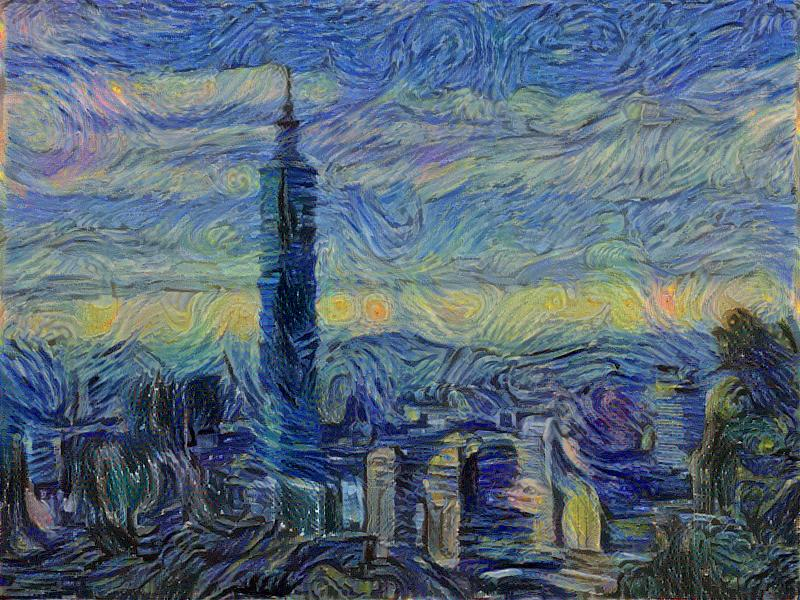
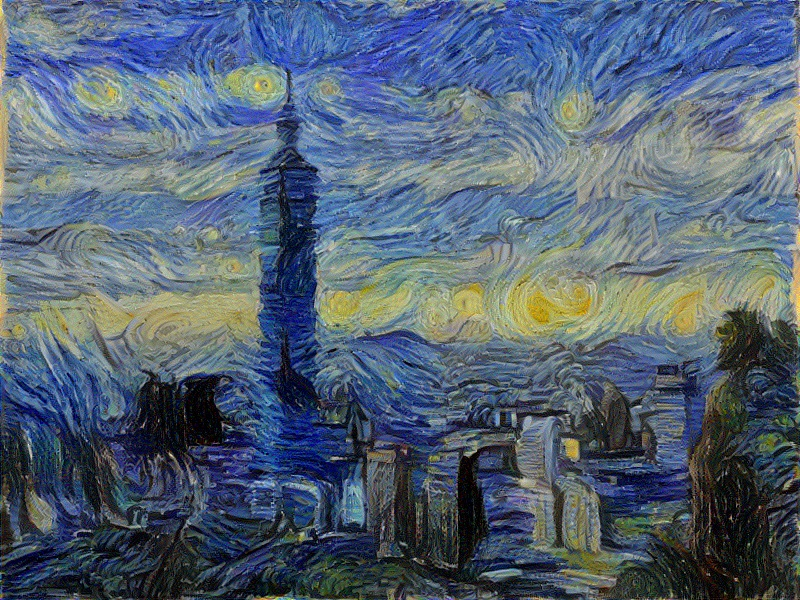
change result img

diff --git a/main.py b/main.py
@@ -9,10 +9,12 @@ IMAGE_W = 800
 IMAGE_H = 600 
 CONTENT_IMG =  './images/Taipei101.jpg'
 STYLE_IMG = './images/StarryNight.jpg'
-OUTPUT_IMG = './results/results.png'
+OUTOUT_DIR = './results'
+OUTPUT_IMG = 'results.png'
+VGG_MODEL = 'imagenet-vgg-verydeep-19.mat'
 INI_NOISE_RATIO = 0.7
 STYLE_STRENGTH = 500
-ITERATION = 2500
+ITERATION = 5000
 
 CONTENT_LAYERS =[('conv4_2',1.)]
 STYLE_LAYERS=[('conv1_1',1.),('conv2_1',1.5),('conv3_1',2.),('conv4_1',2.5),('conv5_1',3.)]
@@ -103,16 +105,12 @@ def write_image(path, image):
 
 
 def main():
-  if not os.path.exists('./results'):
-      os.mkdir('./results')
-  net = build_vgg19('imagenet-vgg-verydeep-19.mat')
+  net = build_vgg19(VGG_MODEL)
   sess = tf.Session()
   sess.run(tf.initialize_all_variables())
   noise_img = np.random.uniform(-20, 20, (1, IMAGE_H, IMAGE_W, 3)).astype('float32')
   content_img = read_image(CONTENT_IMG)
   style_img = read_image(STYLE_IMG)
-  write_image('./results/content.png',content_img)
-  write_image('./results/style.png',style_img)
 
   sess.run([net['input'].assign(content_img)])
   cost_content = sum(map(lambda l,: l[1]*build_content_loss(sess.run(net[l[0]]) ,  net[l[0]])
@@ -122,7 +120,6 @@ def main():
   cost_style = sum(map(lambda l: l[1]*build_style_loss(sess.run(net[l[0]]) ,  net[l[0]])
     , STYLE_LAYERS))
 
-
   cost_total = cost_content + STYLE_STRENGTH * cost_style
   optimizer = tf.train.AdamOptimizer(2.0)
 
@@ -130,16 +127,17 @@ def main():
   sess.run(tf.initialize_all_variables())
   sess.run(net['input'].assign( INI_NOISE_RATIO* noise_img + (1.-INI_NOISE_RATIO) * content_img))
 
-
+  if not os.path.exists(OUTOUT_DIR):
+      os.mkdir(OUTOUT_DIR)
 
   for i in range(ITERATION):
     sess.run(train)
     if i%100 ==0:
       result_img = sess.run(net['input'])
       print sess.run(cost_total)
-      write_image('./results/result_%s.png'%(str(i).zfill(4)),result_img)
+      write_image(os.path.join(OUTOUT_DIR,'%s.png'%(str(i).zfill(4))),result_img)
   
-  write_image(OUTPUT_IMG,result_img)
+  write_image(os.path.join(OUTOUT_DIR,OUTPUT_IMG),result_img)
   
 
 if __name__ == '__main__':
